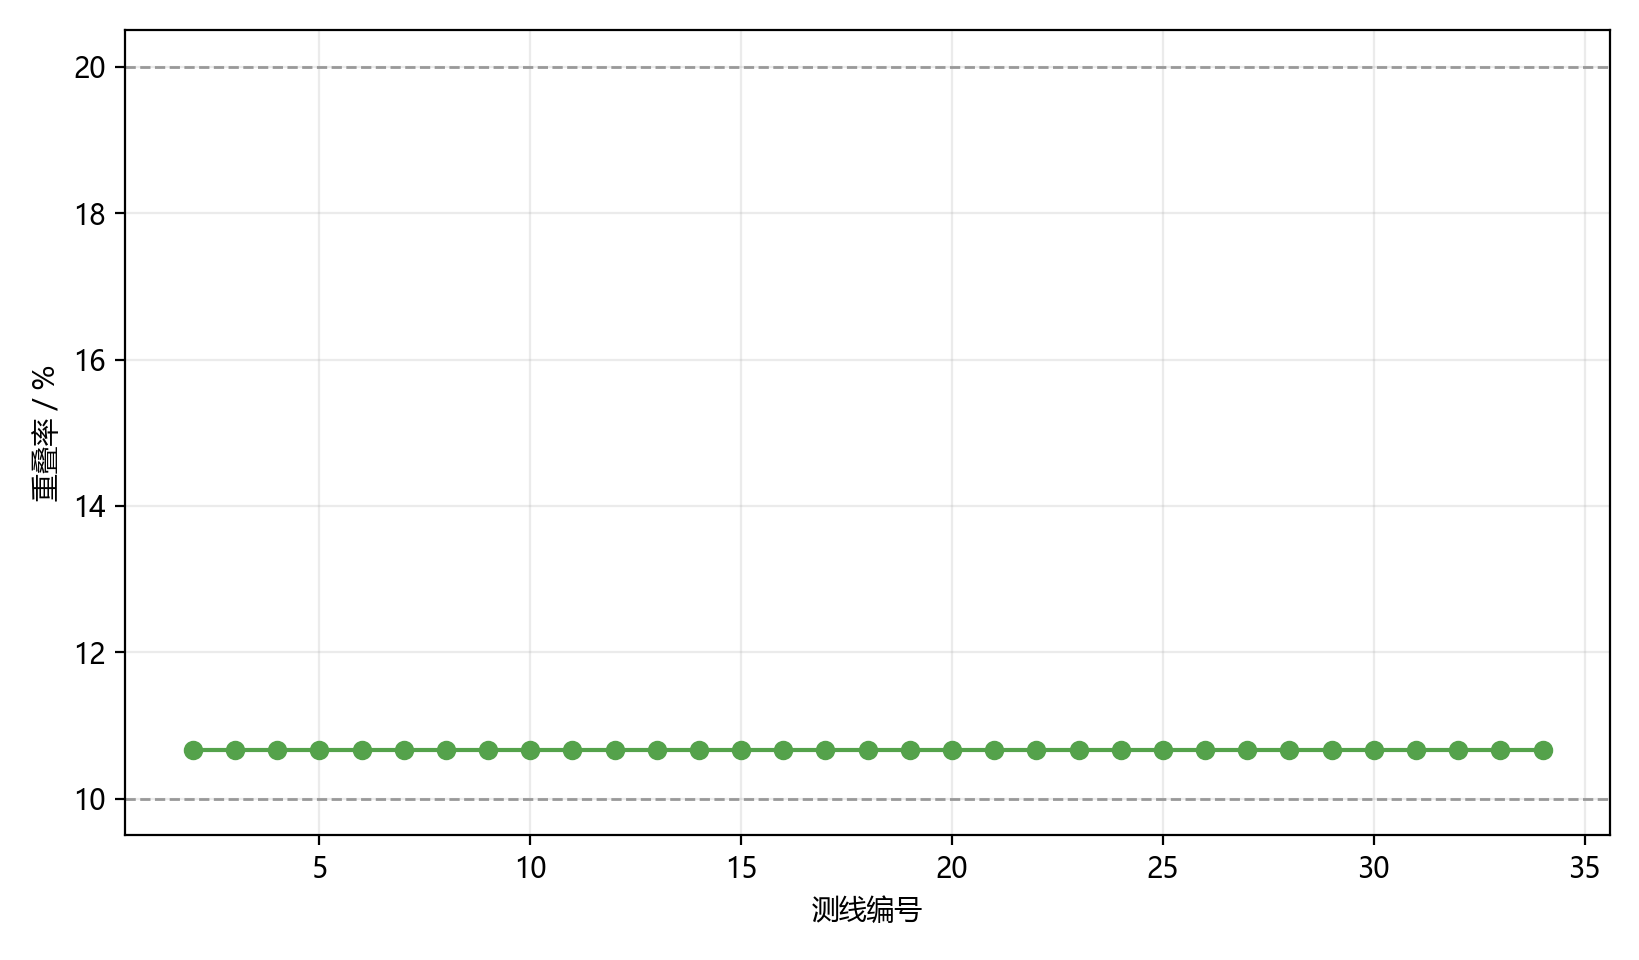
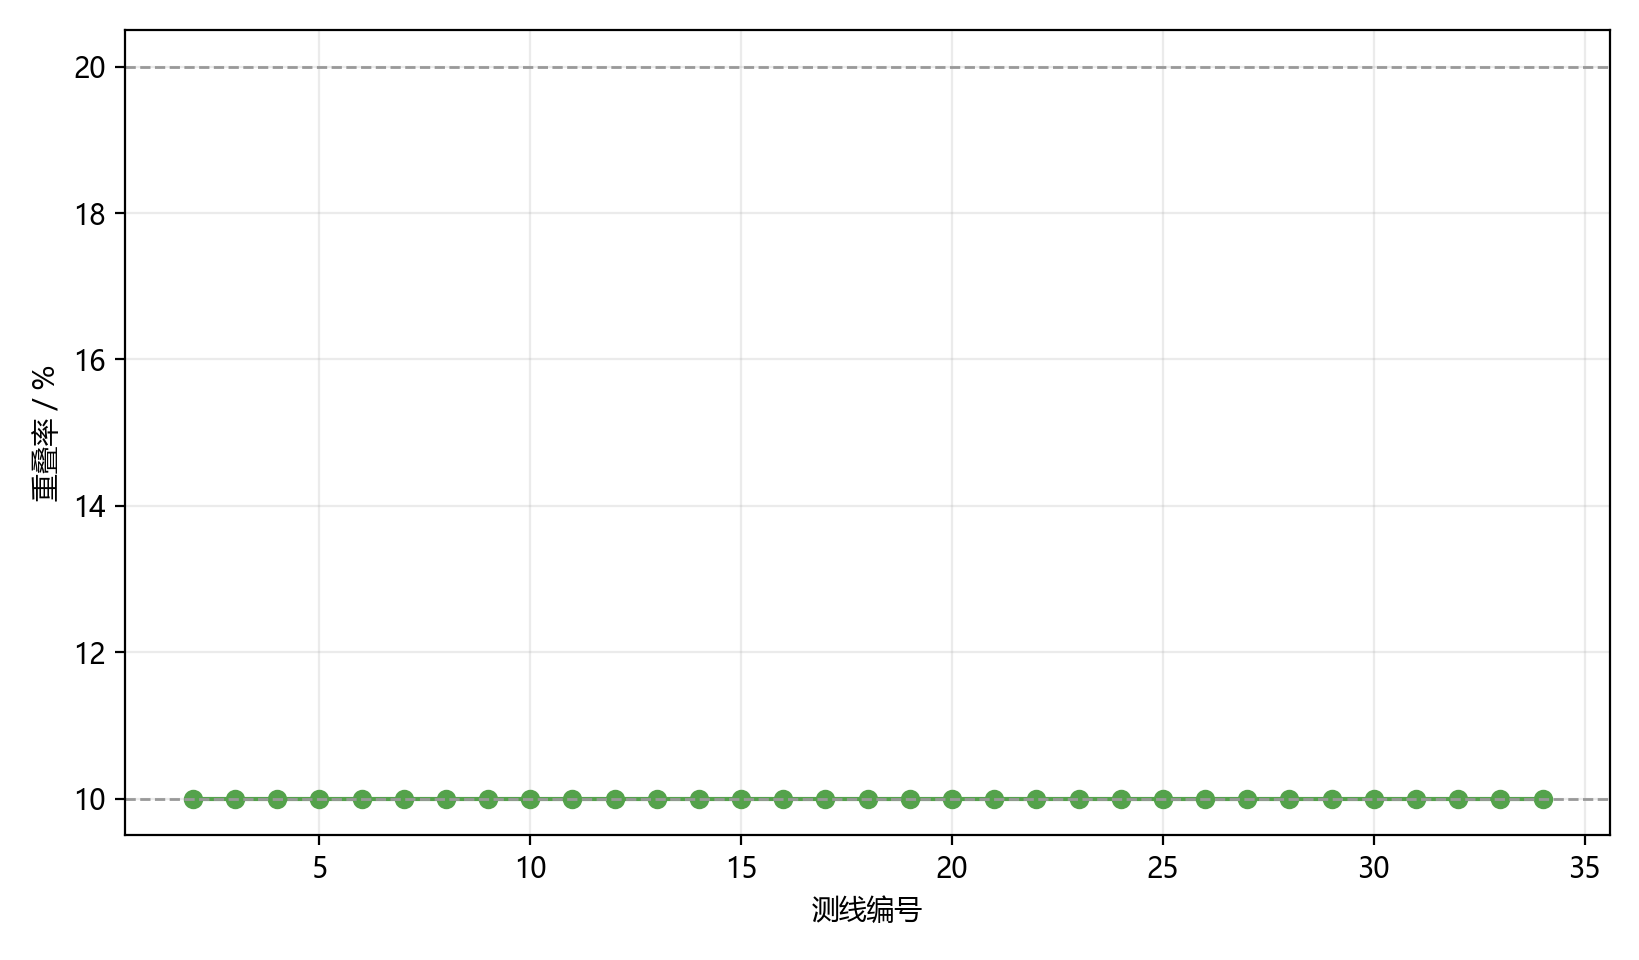
问题三解决代码（降低了重叠率）

Changed region(s): [[0.0933, 0.75, 0.9646, 0.8438]]

diff --git a/question3.py b/question3.py
@@ -187,9 +187,9 @@ def _search_uniform_overlap_for_fixed_count(line_count):
 def solve_question3():
     """求解第三问最优布线。"""
     beta_rad = QUESTION3_OPTIMAL_BETA_RAD
-    _, rough_df, b_rad = _generate_line_positions_for_overlap(QUESTION3_OVERLAP_MIN)
-    line_count = len(rough_df)
-    overlap_rate, line_df, _ = _search_uniform_overlap_for_fixed_count(line_count)
+    overlap_rate = QUESTION3_OVERLAP_MIN
+    _, line_df, b_rad = _generate_line_positions_for_overlap(overlap_rate)
+    line_count = len(line_df)
 
     total_length_nm = line_count * QUESTION3_REGION_NS_NM
     overlap_values = line_df["overlap_rate_pct"].dropna()